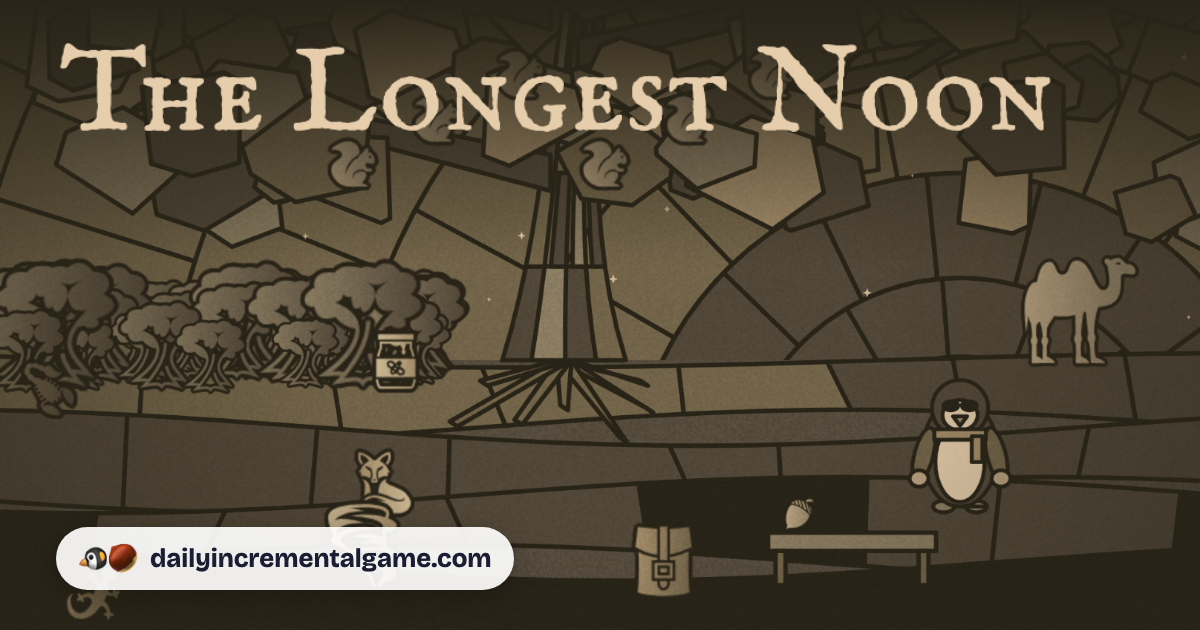
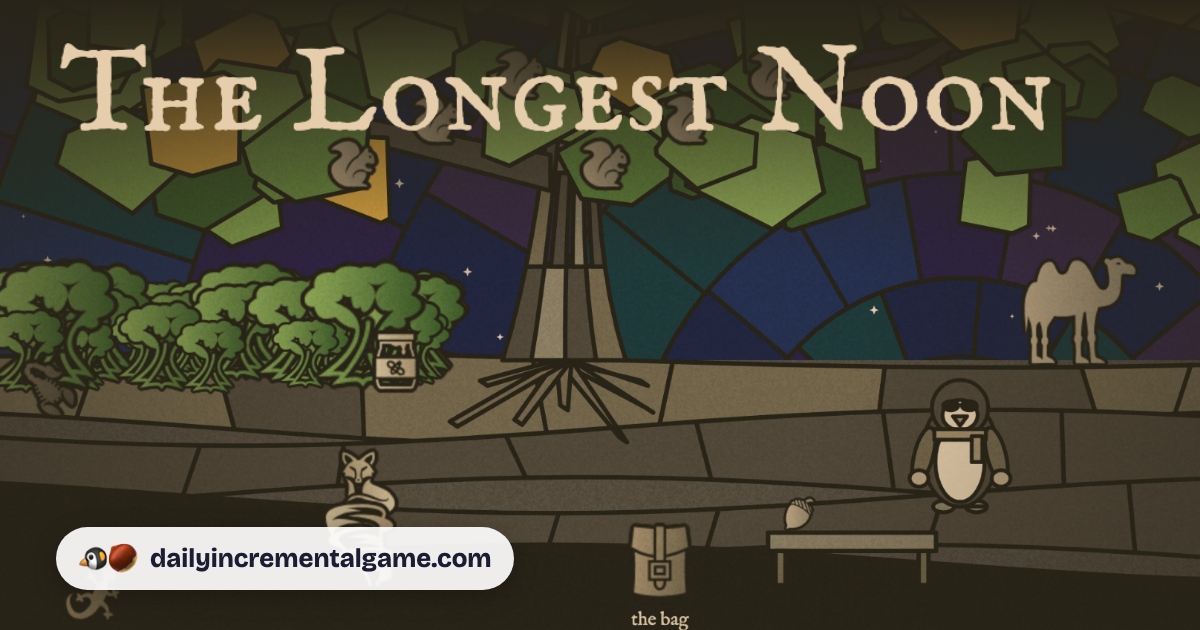
The Longest Noon: jewel-toned glass, music that evolves by phase
- The sky panes, sun, grove and oak leaves are colored glass now; the
  parchment palette stays for lead, sand, frame and page.
- The music was a 4-second cell on repeat. It's now a process: the
  cell mutates every two bars, a four-chord progression moves under
  it, the texture changes every 16 bars, and each phase brings its own
  key, tempo and tone on the next downbeat.
- CLAUDE.md and /new-game: no short music loops; change with phases.

diff --git a/public/the-longest-noon/index.html b/public/the-longest-noon/index.html
@@ -10,7 +10,7 @@
 <meta property="og:title" content="The Longest Noon">
 <meta property="og:description" content="It has been noon for 41 days. A penguin plants a forest to win a staring contest with the sun.">
 <meta property="og:url" content="https://dailyincrementalgame.com/the-longest-noon/">
-<meta property="og:image" content="https://dailyincrementalgame.com/the-longest-noon/og.png?v=e5f5617e">
+<meta property="og:image" content="https://dailyincrementalgame.com/the-longest-noon/og.png?v=ddc55f95">
 <meta property="og:image:width" content="1200">
 <meta property="og:image:height" content="630">
 <meta property="og:image:alt" content="The Longest Noon: It has been noon for 41 days. A penguin plants a forest to win a staring contest with the sun.">
@@ -168,6 +168,16 @@ import { grain, vignette } from '/shared/kit/fx.mjs';
 import { createAudio, scale, loop } from '/shared/kit/audio.mjs';
 
 const P = ['#292418', '#524839', '#73654a', '#8b7d62', '#a48d6a', '#bda583', '#cdba94', '#e6ceac'];
+// The parchment is the stonework: lead, sand, frame, page. The glass gets jewel tones, warm near
+// Harold and cooler further out, like an old church window with the sun behind it.
+const GLASS = {
+  inner: ['#f5e3a8', '#f2d27a', '#ecc463'],
+  mid: ['#e8b85a', '#d98f4e', '#c9645a', '#e0a35a'],
+  outer: ['#c46a5f', '#4f9a92', '#5672a8', '#7f9a4a', '#80659a', '#d9a441', '#b8564f'],
+  night: ['#1d2a44', '#26304f', '#2e2342', '#1f3a3a', '#3a2a44', '#22263f'],
+  leaf: ['#5f7f3a', '#7f9a4a', '#3e5a2a', '#8fa856', '#6b8a40'],
+  sun: ['#f5e3a8', '#f2c35e', '#e8a94a', '#f2d27a'],
+};
 const LEAD = P[0];
 const reduced = matchMedia('(prefers-reduced-motion: reduce)').matches;
 const $ = id => document.getElementById(id);
@@ -187,7 +197,10 @@ document.addEventListener('visibilitychange', () => { if (document.hidden) save(
 // ---------- Audio: phasing marimba in D major pentatonic ----------
 const A = createAudio({ sfxVolume: 0.5, musicVolume: 0.2 });
 A.bindToggles($('soundBtn'), $('musicBtn'));
-const N = scale('major pentatonic', 62);
+// Each phase has its own key and tempo; the music moves on the next downbeat after a phase starts.
+const KEYS = { 1: ['major pentatonic', 62, 96, 3400], 2: ['minor pentatonic', 59, 92, 2600], 3: ['major pentatonic', 57, 88, 2900], night: ['major pentatonic', 50, 72, 1600] };
+const keyFor = () => KEYS[S.ended ? 'night' : S.phase];
+let N = scale(keyFor()[0], keyFor()[1]), musicKey = keyFor();
 let noteIdx = 0;
 const marimba = (deg, o = {}) => A.tone({ type: 'pluck', freq: N(deg), dur: 0.08, vol: 0.22, ...o });
 const sfx = {
@@ -207,24 +220,61 @@ const sfx = {
   },
 };
 
-// Two marimbas play the same pattern at almost the same speed and slowly drift apart, Reich style.
-// Each phase adds a layer; after the ending only a slow, low line is left.
-const PATTERN = [0, 2, 4, 2, 5, 4, 2, 7, 4, 5, 2, 4];
-const lineA = loop(A, { bpm: 96, onStep(step, t) {
+// Process music, after Reich and Glass: a 12-note marimba cell that never stops changing.
+//  - every two bars one note of the cell moves a step or two (so it never repeats exactly)
+//  - 12 notes against 8-beat bars, so the cell keeps rotating against the downbeat
+//  - a four-chord progression, four bars each, shifts the whole cell and sets the bass
+//  - every 16 bars the texture changes: full, thinned, up high, sparse
+//  - phase 2 adds a second marimba drifting slowly out of sync; phase 3 a canon and low bells
+//  - at night only a slow, low line is left
+const cell = [0, 2, 4, 2, 5, 4, 2, 7, 4, 5, 2, 4];
+const PROG = [0, -2, 1, -1];            // chord shifts in scale degrees (I, vi-ish, IV-ish, V-ish)
+const TEXTURES = ['full', 'thin', 'high', 'full', 'sparse', 'high'];
+const M = { bar: 0, a: 0, b: 0, c: 0 };
+let cutoff = musicKey[3];
+const chord = () => PROG[Math.floor(M.bar / 4) % PROG.length];
+const texture = () => TEXTURES[Math.floor(M.bar / 16) % TEXTURES.length];
+function mutate() {
+  const i = (Math.random() * cell.length) | 0, d = Math.random() < 0.5 ? -1 : 1;
+  cell[i] = Math.max(-1, Math.min(9, cell[i] + d * (Math.random() < 0.7 ? 1 : 2)));
+}
+function playCell(idx, t, { vol, pan, detune = 0, lift = 2 }) {
+  const tex = texture(), n = idx % cell.length;
+  if (tex === 'thin' && n % 3 === 2) return;
+  if (tex === 'sparse' && n % 2 === 1) return;
+  const up = tex === 'high' ? 5 : 0;
+  A.tone({ type: 'pluck', freq: N(cell[n] + chord() + lift + up), dur: 0.08, vol, at: t, bus: A.music, cutoff, pan, detune });
+}
+const lineA = loop(A, { bpm: musicKey[2], onStep(step, t) {
+  if (step === 0) {
+    M.bar++;
+    if (keyFor() !== musicKey) { // a new phase: change key, tempo and tone on this downbeat
+      musicKey = keyFor(); N = scale(musicKey[0], musicKey[1]);
+      lineA.bpm = musicKey[2]; lineB.bpm = musicKey[2] * 1.00625; cutoff = musicKey[3];
+    }
+    if (S.phase >= 3 && !S.ended && M.bar % 4 === 0) // a soft drone under each chord in the oak phase
+      A.tone({ type: 'pad', freq: N(chord() - 5), dur: 6, vol: 0.035, attack: 1.5, release: 2, at: t, bus: A.music, cutoff: 1200 });
+    if (M.bar % 2 === 0) mutate();
+    if (!S.ended) { // bass on the downbeat, and a fifth on beat three
+      A.tone({ type: 'sine', freq: N(chord() - 10), dur: 0.5, vol: 0.16, at: t, bus: A.music, release: 0.4 });
+    }
+    if (S.phase >= 3 && !S.ended && M.bar % 4 === 0) A.tone({ type: 'bell', freq: N(chord() + 7), dur: 0.6, vol: 0.06, at: t, bus: A.music });
+  }
+  if (step === 8 && !S.ended && texture() !== 'sparse') A.tone({ type: 'sine', freq: N(chord() - 7), dur: 0.3, vol: 0.1, at: t, bus: A.music });
+  if (S.phase === 2 && !S.ended && step % 4 === 2) A.noiseHit('shaker', { at: t, vol: 0.025, bus: A.music });
   if (step % 2) return;
-  const i = (step / 2 + lineA.count++) % PATTERN.length;
-  if (S.ended) { if (step % 4 === 0) A.tone({ type: 'pluck', freq: N(PATTERN[i] - 5), dur: 0.1, vol: 0.12, at: t, bus: A.music, cutoff: 1800 }); return; }
-  A.tone({ type: 'pluck', freq: N(PATTERN[i] + 2), dur: 0.08, vol: 0.16, at: t, bus: A.music, cutoff: 3500, pan: -0.3 });
-  if (S.phase >= 3 && step % 8 === 0) A.tone({ type: 'sine', freq: N(PATTERN[i] - 10), dur: 0.3, vol: 0.18, at: t, bus: A.music });
+  if (S.ended) { // night: a slow, low line, one note a beat
+    if (step % 4 === 0) A.tone({ type: 'pluck', freq: N(cell[M.a++ % cell.length] - 5), dur: 0.12, vol: 0.12, at: t, bus: A.music, cutoff: 1600 });
+    return;
+  }
+  playCell(M.a++, t, { vol: 0.15, pan: -0.3 });
+  if (S.phase >= 3) playCell(M.c++ + 3, t + 0.001, { vol: 0.07, pan: 0.1, lift: 9 }); // canon, three notes behind, an octave up
 } });
-lineA.count = 0;
-const lineB = loop(A, { bpm: 96.6, onStep(step, t) {
+const lineB = loop(A, { bpm: musicKey[2] * 1.00625, onStep(step, t) {
   if (step % 2 || S.phase < 2 || S.ended) return;
-  const i = (step / 2 + lineB.count++) % PATTERN.length;
-  // A few cents flat: the drift that makes it slightly uncanny.
-  A.tone({ type: 'pluck', freq: N(PATTERN[i] + 7), dur: 0.07, vol: 0.1, at: t, bus: A.music, cutoff: 3000, detune: -14, pan: 0.35 });
+  // Slightly faster and a few cents flat: it drifts against line A, slowly and a little uncannily.
+  playCell(M.b++, t, { vol: 0.09, pan: 0.35, detune: -14, lift: 7 });
 } });
-lineB.count = 0;
 lineA.start(); lineB.start();
 
 // ---------- Canvas ----------
@@ -280,7 +330,7 @@ function drawBackdrop() {
   const hx = L.harold.x, hy = L.harold.y + night * H * 0.6;
   // Sky: rings and rays around the sun. Lighter close in, like light through old glass.
   c.save(); c.beginPath(); c.rect(0, 0, W, L.horizon); c.clip();
-  const sky = night > 0.5 ? [P[0], P[1], P[1], P[2]] : [P[7], P[6], P[6], P[5], P[5], P[4]];
+  const pick = arr => arr[(R() * arr.length) | 0];
   const maxR = Math.hypot(W, H) * 1.1;
   let r0 = L.harold.r * 1.25, ring = 0;
   while (r0 < maxR) {
@@ -292,8 +342,7 @@ function drawBackdrop() {
       const pts = [];
       for (let k = 0; k <= 4; k++) { const a = a0 + (a1 - a0) * k / 4; pts.push([hx + Math.cos(a) * r0, hy + Math.sin(a) * r0]); }
       for (let k = 4; k >= 0; k--) { const a = a0 + (a1 - a0) * k / 4; pts.push([hx + Math.cos(a) * r1, hy + Math.sin(a) * r1]); }
-      const base = Math.min(sky.length - 1, ring);
-      const col = sky[Math.max(0, Math.min(sky.length - 1, base + (R() < 0.3 ? 1 : 0) - (R() < 0.15 ? 1 : 0)))];
+      const col = night > 0.5 ? pick(GLASS.night) : ring === 0 ? pick(GLASS.inner) : ring === 1 ? pick(R() < 0.7 ? GLASS.mid : GLASS.inner) : pick(R() < 0.25 && ring < 4 ? GLASS.mid : GLASS.outer);
       pane(c, pts, col, lw);
     }
     r0 = r1; ring++;
@@ -338,7 +387,7 @@ async function glass(file, size, stops, lead = 3) {
 async function makeSprites() {
   const list = [
     ['acorn', 'game-icons--acorn.svg', 40, [P[5], P[3]]],
-    ['oak', 'game-icons--oak.svg', 90, [P[3], P[1]]],
+    ['oak', 'game-icons--oak.svg', 90, ['#8fa856', '#3e5a2a']],
     ['camel', 'game-icons--camel.svg', 110, [P[5], P[3]]],
     ['lizard', 'game-icons--gecko.svg', 46, [P[4], P[2]]],
     ['fox', 'game-icons--fox.svg', 54, [P[6], P[4]]],
@@ -401,14 +450,14 @@ function drawHarold(c, x, y, r, look, annoyed) {
   const spin = reduced ? 0 : T * 0.05;
   for (let i = 0; i < 12; i++) { // rays
     const a = spin + i / 12 * Math.PI * 2;
-    pane(c, [[Math.cos(a - 0.12) * r * 1.02, Math.sin(a - 0.12) * r * 1.02], [Math.cos(a) * r * 1.42, Math.sin(a) * r * 1.42], [Math.cos(a + 0.12) * r * 1.02, Math.sin(a + 0.12) * r * 1.02]], i % 2 ? P[6] : P[7], lw);
+    pane(c, [[Math.cos(a - 0.12) * r * 1.02, Math.sin(a - 0.12) * r * 1.02], [Math.cos(a) * r * 1.42, Math.sin(a) * r * 1.42], [Math.cos(a + 0.12) * r * 1.02, Math.sin(a + 0.12) * r * 1.02]], i % 2 ? GLASS.sun[2] : GLASS.sun[3], lw);
   }
   for (let i = 0; i < 8; i++) { // the disc, in wedges
     const a0 = i / 8 * Math.PI * 2, a1 = (i + 1) / 8 * Math.PI * 2;
     c.beginPath(); c.moveTo(0, 0); c.arc(0, 0, r, a0, a1); c.closePath();
-    c.fillStyle = i % 2 ? P[7] : P[6]; c.fill(); c.lineWidth = lw; c.strokeStyle = LEAD; c.stroke();
+    c.fillStyle = i % 2 ? GLASS.sun[1] : GLASS.sun[3]; c.fill(); c.lineWidth = lw; c.strokeStyle = LEAD; c.stroke();
   }
-  c.beginPath(); c.arc(0, 0, r * 0.62, 0, Math.PI * 2); c.fillStyle = P[7]; c.fill(); c.lineWidth = lw; c.stroke();
+  c.beginPath(); c.arc(0, 0, r * 0.62, 0, Math.PI * 2); c.fillStyle = GLASS.sun[0]; c.fill(); c.lineWidth = lw; c.stroke();
   // Face. He has never blinked.
   const er = r * 0.17, L2 = { x: look.x - x, y: look.y - y };
   eye(c, -r * 0.27, -r * 0.08, er, L2, annoyed * 0.6); eye(c, r * 0.27, -r * 0.08, er, L2, annoyed * 0.6);
@@ -460,7 +509,7 @@ function drawOak(c, g) {
     for (let i = 0; i < 9; i++) {
       const ax = lean(1) + (R() - 0.5) * tw * 3.2, ay = -th - R() * m * 0.08, sz = m * (0.03 + R() * 0.02);
       const pts = []; for (let k = 0; k < 6; k++) { const a = k / 6 * Math.PI * 2 + R(); pts.push([ax + Math.cos(a) * sz, ay + Math.sin(a) * sz * 0.8]); }
-      pane(c, pts, [P[3], P[2], P[4]][i % 3], lw);
+      pane(c, pts, GLASS.leaf[i % GLASS.leaf.length], lw);
     }
   }
   // Boughs: tapered arms that bend upward; the right ones reach toward Harold.
@@ -480,7 +529,7 @@ function drawOak(c, g) {
       const ax = -x + W * (0.06 + u * 0.98), ay = -y + H * (0.02 + v * 0.4) - Math.sin(u * Math.PI) * H * 0.04;
       const s = m * (0.055 + R() * 0.045) * Math.min(1, 0.4 + crown * 0.8);
       const pts = []; for (let k = 0; k < 6; k++) { const a = k / 6 * Math.PI * 2 + R(); pts.push([ax + Math.cos(a) * s, ay + Math.sin(a) * s * 0.8]); }
-      pane(c, pts, [P[2], P[3], P[1], P[4], P[2]][i % 5], lw);
+      pane(c, pts, i % 11 === 0 ? '#d9a441' : GLASS.leaf[i % GLASS.leaf.length], lw);
     }
   }
   c.restore();

diff --git a/.claude/commands/new-game.md b/.claude/commands/new-game.md
@@ -27,7 +27,7 @@ Make the next Daily Incremental game. Read CLAUDE.md first and follow it exactly
    - the rolled structure and twist as real mechanics, with saves that resume mid-game (phase, layer, resets and all)
    - for short and story games, offline progress: when a player comes back, credit the time away (capped, at a reduced rate) and tell them what happened while they were gone
    - pleasant synthesized Web Audio sounds for every action, an unlock chime, a purchase sound and a finale, all on the rolled musical scale, plus a sound toggle using the `di:sound-muted` key
-   - background music in the rolled style, generated live with Web Audio (no audio files): a quiet loop with slow chord changes and some variation, under the sound effects in the mix, starting on the first gesture, pausing while the tab is hidden, with its own toggle using `di:music-muted` (sound off silences it too). For longer games, let it change with the phases.
+   - background music in the rolled style, generated live with Web Audio (no audio files): quiet and under the sound effects in the mix, and never a short loop: write it as a process that keeps changing (melody mutating a note at a time, a chord progression, texture changes every few dozen bars) so nothing repeats exactly for minutes, and shift key, tempo or tone subtly as the game moves through phases, starting on the first gesture, pausing while the tab is hidden, with its own toggle using `di:music-muted` (sound off silences it too).
    - an upgrade column on the right (stacking below on phones) where new unlocks pulse with a "new" tag and the heading shows how many are affordable
    - a mix of real upgrades and a few silly one-offs that add story, a meter that tracks progress toward the arc's drive, and flavor text in a log line, all written in the rolled tone
    - a real ending in the rolled ending form that calls DailyGame.finish() once with short, emoji-led share lines, plus a Share button

diff --git a/CLAUDE.md b/CLAUDE.md
@@ -15,8 +15,11 @@ Every game should have these bones:
   localStorage key.
 - **Background music.** A quiet loop in the game's own style (lo-fi, chiptune, music box...),
   generated live with Web Audio rather than shipped as audio files: no network requests, no
-  licenses to track. Slow chord changes, light variation so it doesn't grate after ten minutes,
-  well under the sound effects in the mix. `public/shared/kit/audio.mjs` has the voices,
+  licenses to track. Never a short loop: a pattern that repeats every few seconds is obvious
+  within a minute. Make it a process that keeps changing (mutate the melody a note at a time,
+  move through a chord progression, change texture every few dozen bars) so nothing repeats
+  exactly for minutes, and let it shift subtly with the game: key, tempo or tone per phase,
+  layers that join as things grow. Keep it well under the sound effects in the mix. `public/shared/kit/audio.mjs` has the voices,
   scales and sequencer to build it on. It starts with the first gesture, pauses while the tab
   is hidden, and has its own toggle shared via `di:music-muted`; the sound mute silences it too.
 - **A clear upgrade path.** Upgrades sit in a column beside the play area (stacking below it on
